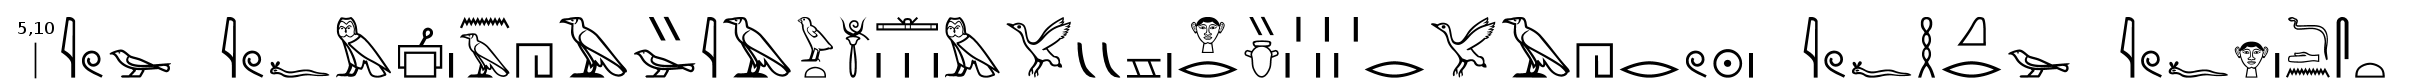
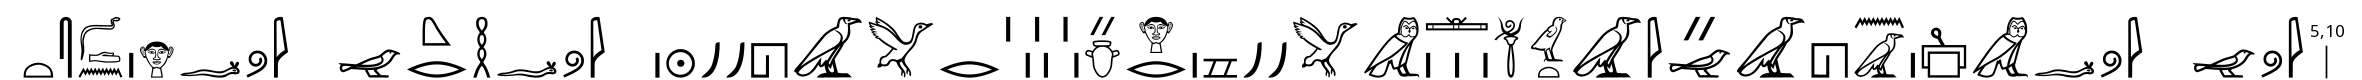
Update website
Re-render line 5.10 with the new transcription.

Changed region(s): [[0.0, 0.2, 1.0, 0.975]]

diff --git a/docs/hr-st.html b/docs/hr-st.html
@@ -812,7 +812,7 @@
         <img src="./images/hieratic_page05_line010.png" />
       </div>
       <div class="hieroglyphic">
-        <img src="./images/hieroglyphic_page05_line010.png" width="2087px" class="flip" />
+        <img src="./images/hieroglyphic_page05_line010.png" width="2087px" />
       </div>
     </div>
 
